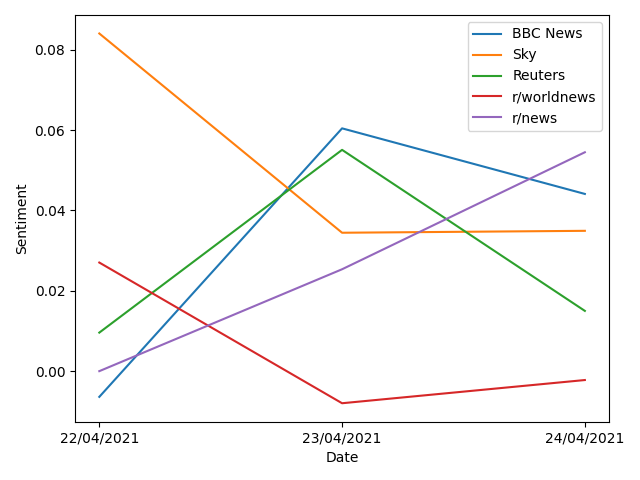
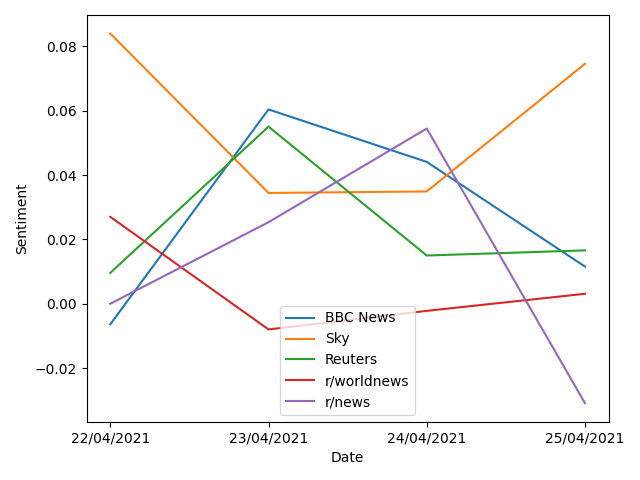
Automatic update (gitControl.py)

diff --git a/README.md b/README.md
@@ -3,7 +3,7 @@
 World news sentiment data, updated at 07:00 daily.
 
 **Started:** `22/04/2021`<br>
-**Updated:** `24/04/2021, 07:48:22`<br>
+**Updated:** `25/04/2021, 07:00:39`<br>
 **Sources:** `BBC News, Sky, Reuters, r/worldnews, r/news`
 
 <img src="https://user-images.githubusercontent.com/25552804/115932698-55adef00-a485-11eb-82bb-2265c0821ca0.png" width="20%" height="20%">

diff --git a/docs/index.md b/docs/index.md
@@ -3,7 +3,7 @@
 World news sentiment data, updated at 07:00 daily.
 
 **Started:** `22/04/2021`<br>
-**Updated:** `24/04/2021, 07:48:22`<br>
+**Updated:** `25/04/2021, 07:00:39`<br>
 **Sources:** `BBC News, Sky, Reuters, r/worldnews, r/news`
 
 <img src="https://user-images.githubusercontent.com/25552804/115932698-55adef00-a485-11eb-82bb-2265c0821ca0.png" width="20%" height="20%">
